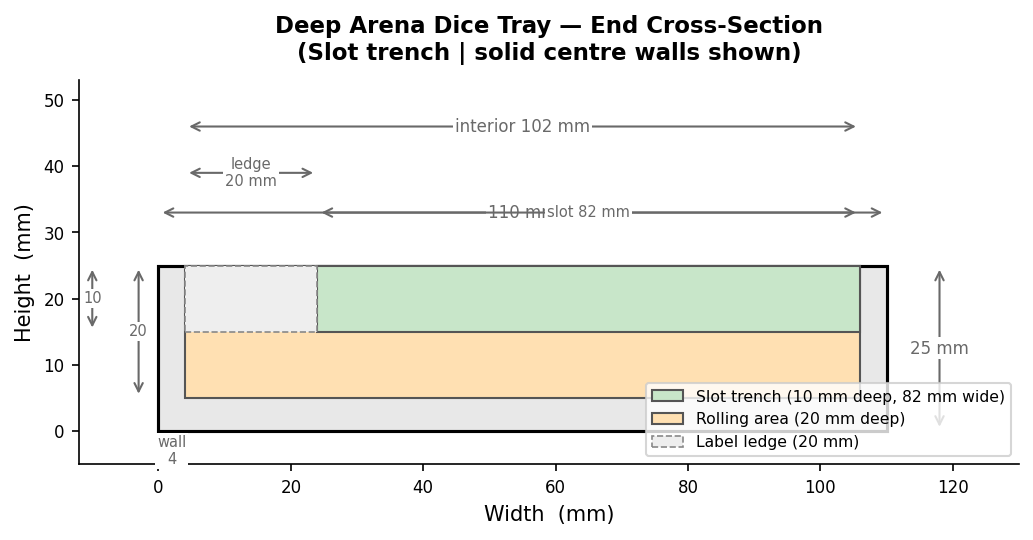
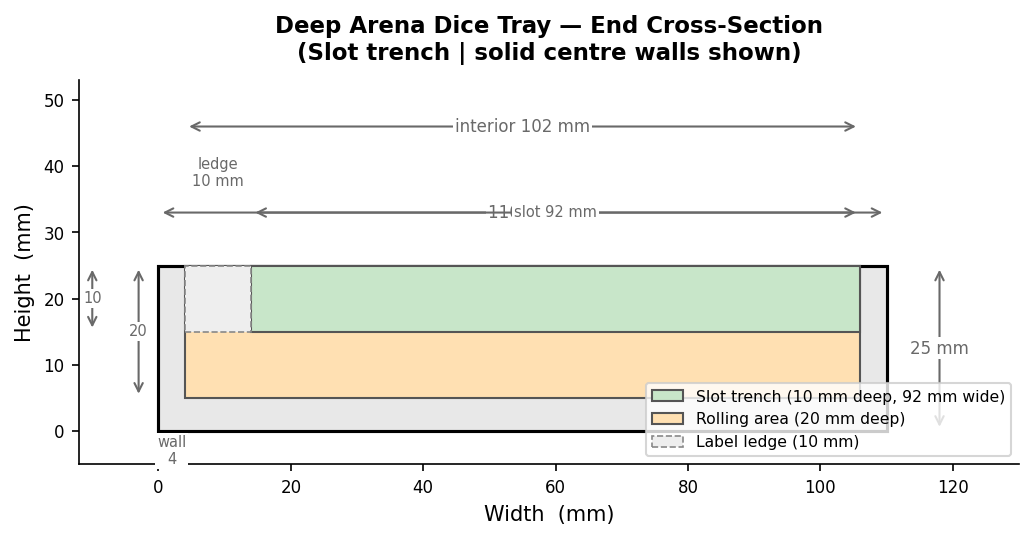
v2 tweak

diff --git a/wargaming/KT-dice-tray/v2/deep_arena_dice_tray.py b/wargaming/KT-dice-tray/v2/deep_arena_dice_tray.py
@@ -11,7 +11,7 @@ roll_d = 100.0     # Expanded central rolling area depth
 wall = 4.0         # Wall/Divider thickness
 
 # Label ledge: flat top-surface strip left for engraved/written labels
-label_ledge = 20.0  # Width of the label strip per player side
+label_ledge = 10.0  # Width of the label strip per player side
 
 # Depth of the floor cuts
 slot_cut_h = 10.0  # Trench floor depth
